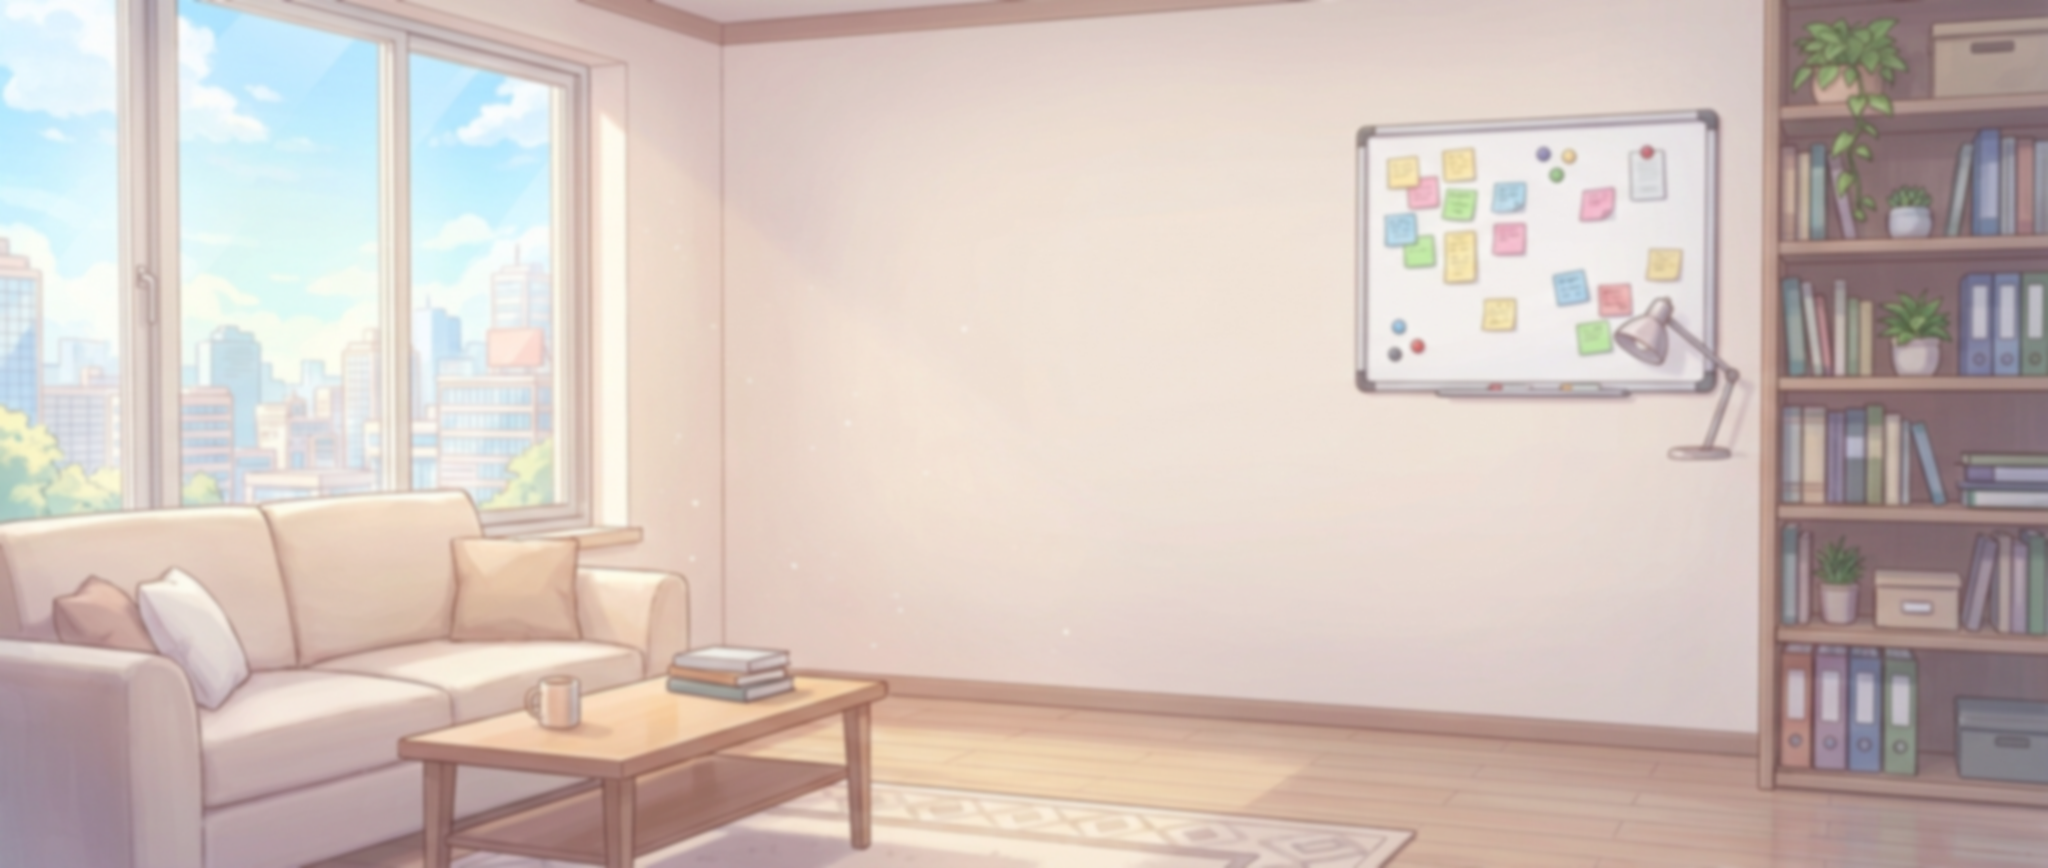
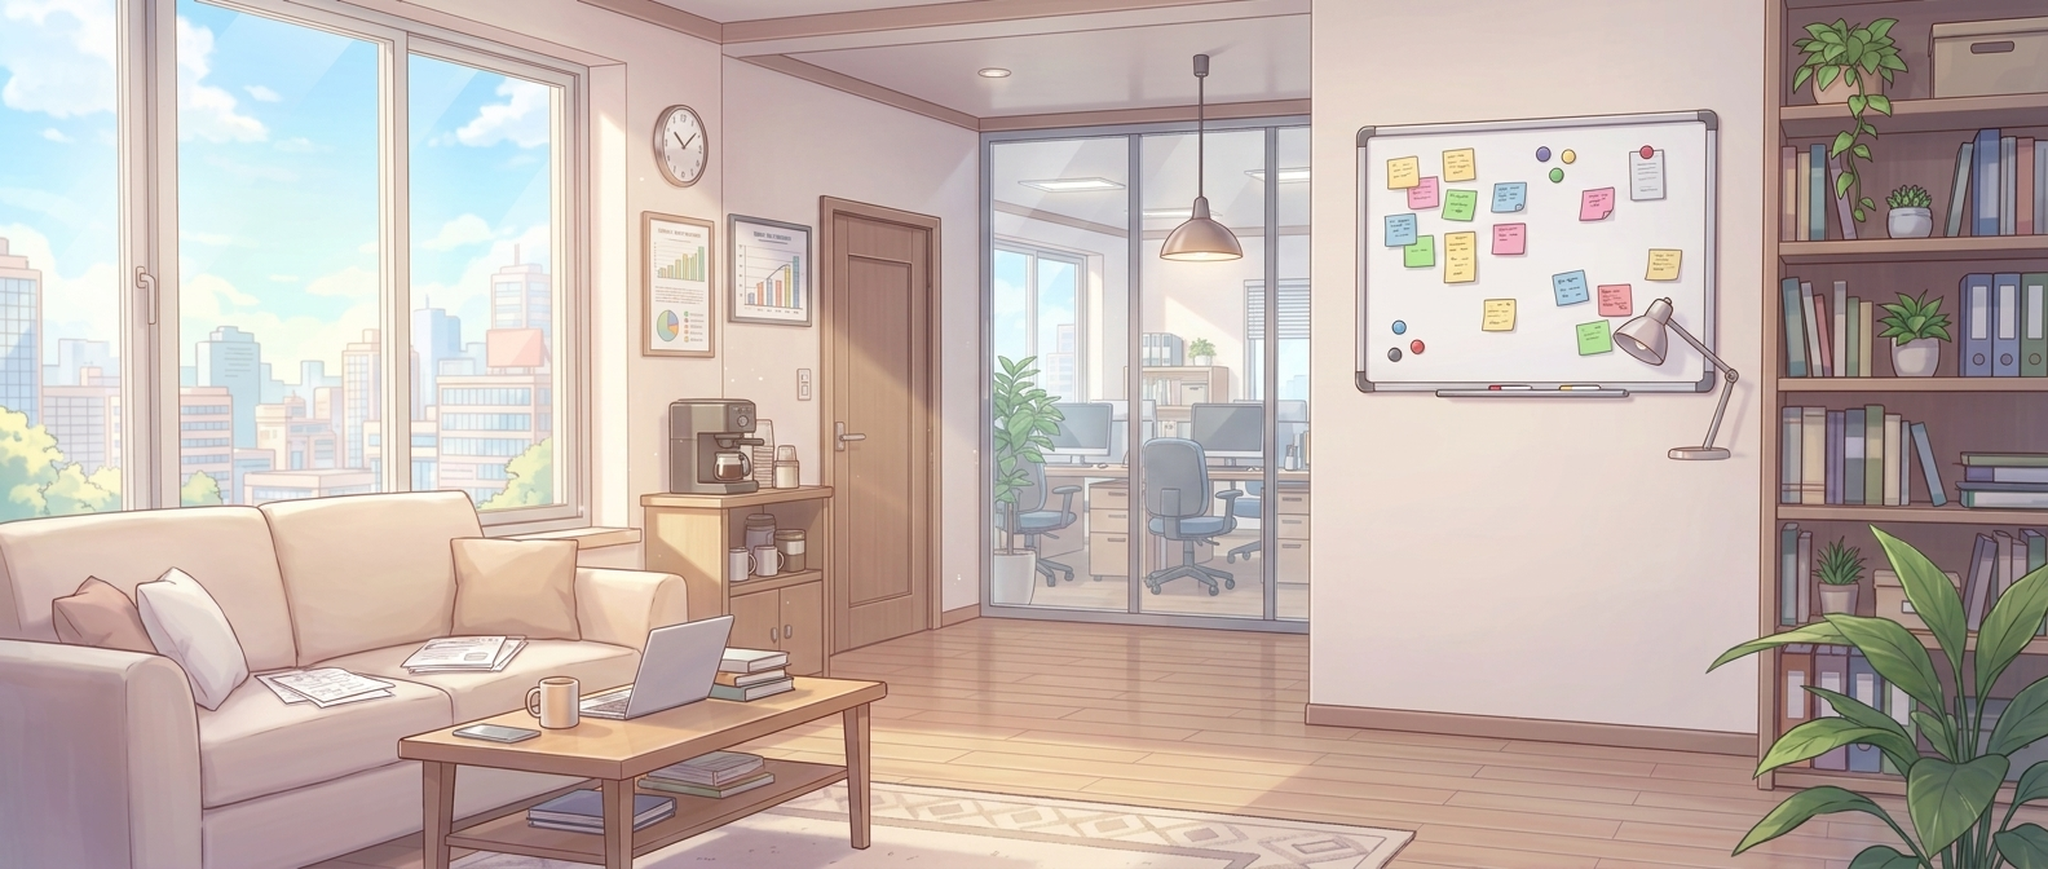
BA 교차점검 3차: 로비 방 배경 재제작(빈 벽 → 창·소파·유리 파티션 너머 사무실·펜던트 조명·커피 스테이션·전경 화분, 햇빛, 선명; tools/gen_lobby_bg_gemini.py) — 로비 4.5→5.4

diff --git a/tools/gen_lobby_bg_gemini.py b/tools/gen_lobby_bg_gemini.py
@@ -1,0 +1,55 @@
+# -*- coding: utf-8 -*-
+"""
+The lobby room, redrawn (the Blue Archive cross-check, 2026-09-30: "the background lacks depth and
+lighting; the benchmark's lobby rooms are dense, crisp and lit"): the current room
+(Resources/Art/Backdrop/lobby.png — a sofa, a window, a whiteboard, a shelf, and a large blank wall)
+goes in as the layout, and comes back as a finished, detailed, crisp office lounge — the window on
+the left, the shelf on the right, the middle kept clearer for the character who stands in it — with
+real depth: a foreground table edge, the room receding, sunlight across the floor.
+
+    python tools/gen_lobby_bg_gemini.py      → Resources/Art/Backdrop/lobby.png (the old one kept as tools/out/lobby_prev.png)
+SECURITY: the key is read from the env file by NAME; never printed or written.
+"""
+import base64, io, json, os, shutil, sys, urllib.request, urllib.error
+sys.path.insert(0, os.path.dirname(os.path.abspath(__file__)))
+import gen_cards_gemini as g
+from PIL import Image
+
+DST = os.path.join(g.ROOT, "Assets", "ExcelHeroes", "Resources", "Art", "Backdrop", "lobby.png")
+ASK = ("This is the background of our mobile game's main lobby: an office lounge where the player's character stands in the middle. "
+       "Redraw it as a finished, premium background in the style of a top Japanese gacha game's lobby (a bright, detailed, crisp "
+       "anime background painting, clean lines, rich but soft colours). Keep the same room layout and camera: the big window with the "
+       "city on the left, the sofa and low table on the left, the whiteboard and the tall shelf on the right. Make it DENSE and "
+       "lived-in and give it DEPTH: the room recedes to a back wall with a door and a glass partition to an open-plan office with "
+       "desks and monitors, a hanging pendant lamp, a potted plant corner, framed charts and a wall clock, a coffee station, papers "
+       "and a laptop on the table, a rug, a foreground plant cut by the frame's lower corner. Warm late-morning sunlight streams "
+       "through the window in soft beams across the floor and wall, gentle bloom, crisp shadows. The MIDDLE of the picture stays "
+       "calmer (floor and far wall) where the character stands. Sharp focus everywhere, no blur. No people, no characters, no text, "
+       "no logos, no watermark. Same ultra-wide framing.")
+
+
+def main():
+    key = g.read_key()
+    im = Image.open(DST).convert("RGB"); buf = io.BytesIO(); im.save(buf, "PNG")
+    body = json.dumps({"contents": [{"parts": [{"inlineData": {"mimeType": "image/png", "data": base64.b64encode(buf.getvalue()).decode("ascii")}}, {"text": ASK}]}],
+                       "generationConfig": {"responseModalities": ["IMAGE"], "temperature": 0.5, "imageConfig": {"aspectRatio": "21:9"}}}).encode("utf-8")
+    for model in g.MODELS:
+        req = urllib.request.Request(f"https://generativelanguage.googleapis.com/v1beta/models/{model}:generateContent", data=body, method="POST",
+                                     headers={"Content-Type": "application/json", "x-goog-api-key": key})
+        try:
+            with urllib.request.urlopen(req, timeout=300) as r: d = json.loads(r.read().decode("utf-8"))
+        except urllib.error.HTTPError as e: print(f"  {model}: HTTP {e.code}"); continue
+        for c in d.get("candidates", []):
+            for p in c.get("content", {}).get("parts", []):
+                inline = p.get("inlineData") or p.get("inline_data")
+                if inline and inline.get("data"):
+                    prev = os.path.join(g.ROOT, "tools", "out", "lobby_prev.png")
+                    if not os.path.exists(prev): shutil.copy(DST, prev)
+                    out = Image.open(io.BytesIO(base64.b64decode(inline["data"]))).convert("RGB")
+                    out = out.resize((2048, round(2048 * out.height / out.width)), Image.LANCZOS)
+                    out.save(DST); print("  ok", model, out.size); return
+    print("  FAILED")
+
+
+if __name__ == "__main__":
+    main()
